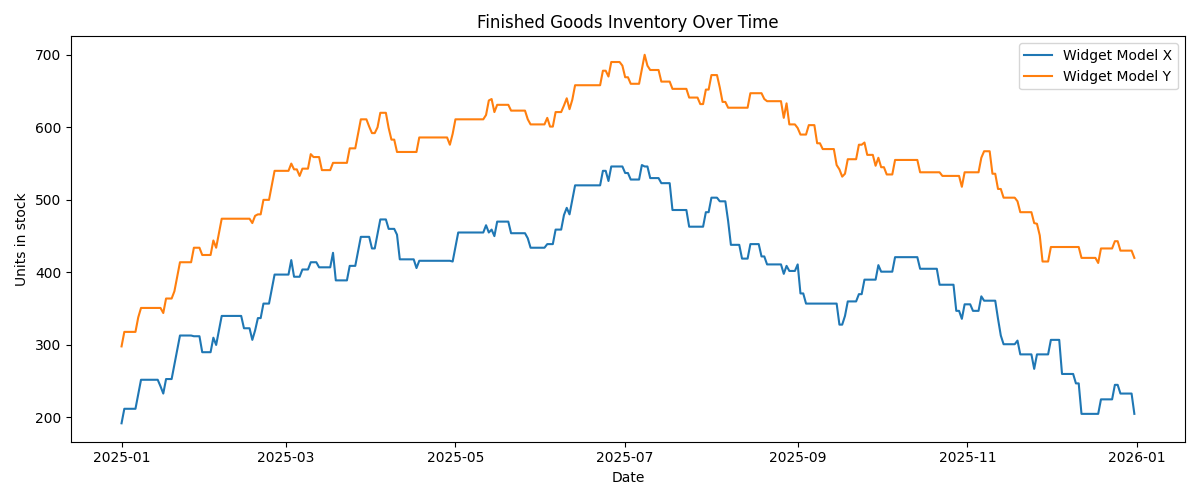
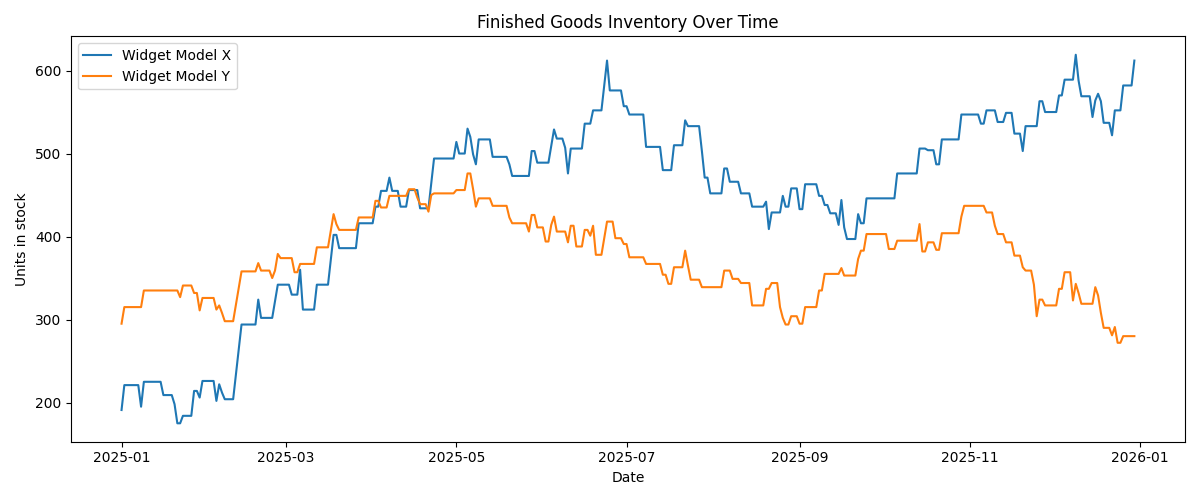
Finalized and validated the robust normal baseline simulation.

diff --git a/simulator/daily_simulation.py b/simulator/daily_simulation.py
@@ -149,7 +149,7 @@ for material_id in SUPPLIERS_FOR_MATERIAL:
 # ============================================================
 
 PRODUCTION_BATCH = {
-    201: 20,
+    201: 30,
     202: 20,
 }
 
@@ -276,11 +276,17 @@ def choose_supplier(material_id):
 def production_day(current_day):
     if current_day.weekday() >= 5:
         return False
-    return random.random() < 0.28
+    # Lowered from 0.28 to 0.24 -- 30-unit batches for product 201
+    # combined with the old 0.28 frequency produced zero natural
+    # backorders (production outpaced demand). This is a smaller,
+    # continuous lever than batch size, which is constrained to
+    # multiples of 10 by the BOM and jumps too coarsely (20->30 was
+    # a 50% change with nothing in between).
+    return random.random() < 0.24
 
 
 def customer_demand(customer, product_id, current_day):
-    base = 10 if product_id == 201 else 8
+    base = 12 if product_id == 201 else 9
 
     customer_factor = {
         1: 1.20, 2: 0.85, 3: 1.35, 4: 1.00, 5: 0.70,
@@ -297,8 +303,10 @@ def customer_demand(customer, product_id, current_day):
     }[current_day.month]
 
     mean = base * customer_factor * weekday_factor * month_factor
-    demand = random.gauss(mean, max(2.0, mean * 0.25))
-    return max(0, int(round(demand)))
+
+    demand = random.gauss(mean, mean * 0.15)
+    demand = max(mean * 0.5, min(demand, mean * 1.6))
+    return max(1, int(round(demand)))
 
 
 def required_materials(product_id, quantity):
@@ -326,7 +334,7 @@ def maximum_producible(product_id, planned_quantity):
         available = get_stock(bom.raw_material_id)
         possible = int(available // bom.quantity_required)
         maximum = min(maximum, possible)
-
+    maximum = (int(maximum) // PRODUCTION_STEP[product_id]) * PRODUCTION_STEP[product_id]
     return max(0, int(maximum))
 
 
@@ -680,17 +688,7 @@ while current_day <= END_DATE:
 
 
 # ============================================================
-# FLUSH EVERYTHING BEFORE VALIDATION -- THIS IS THE FIX.
-#
-# Session was created with autoflush=False (a deliberate choice
-# early in this project), so pending inserts are NOT automatically
-# sent to the database when queried. Every event inside the loop
-# above already gets flushed individually EXCEPT there is no
-# guarantee the very last one created before the loop ends has
-# been flushed yet. Without this line, the reconciliation query
-# below can undercount the most recent movement(s) -- which is
-# exactly what caused the "expected 217, actual 205" mismatch
-# (a missing final 12-unit delivery movement on the last day).
+# FLUSH EVERYTHING BEFORE VALIDATION
 # ============================================================
 
 db.flush()
@@ -792,7 +790,6 @@ print(f"Units ordered           : {stats['purchase_units_ordered']}")
 print(f"Units received          : {stats['purchase_units_received']}")
 print(f"Sales orders            : {stats['sales_orders']}")
 print(f"Sales units ordered     : {stats['sales_units_ordered']}")
-print(f"Sales units fulfilled   : {stats['sales_units_fulfilled']}")
 print(f"Sales units backordered : {stats['sales_units_backordered']}")
 print(f"Deliveries              : {stats['deliveries']}")
 print(f"Delivery units          : {stats['delivery_units']}")
